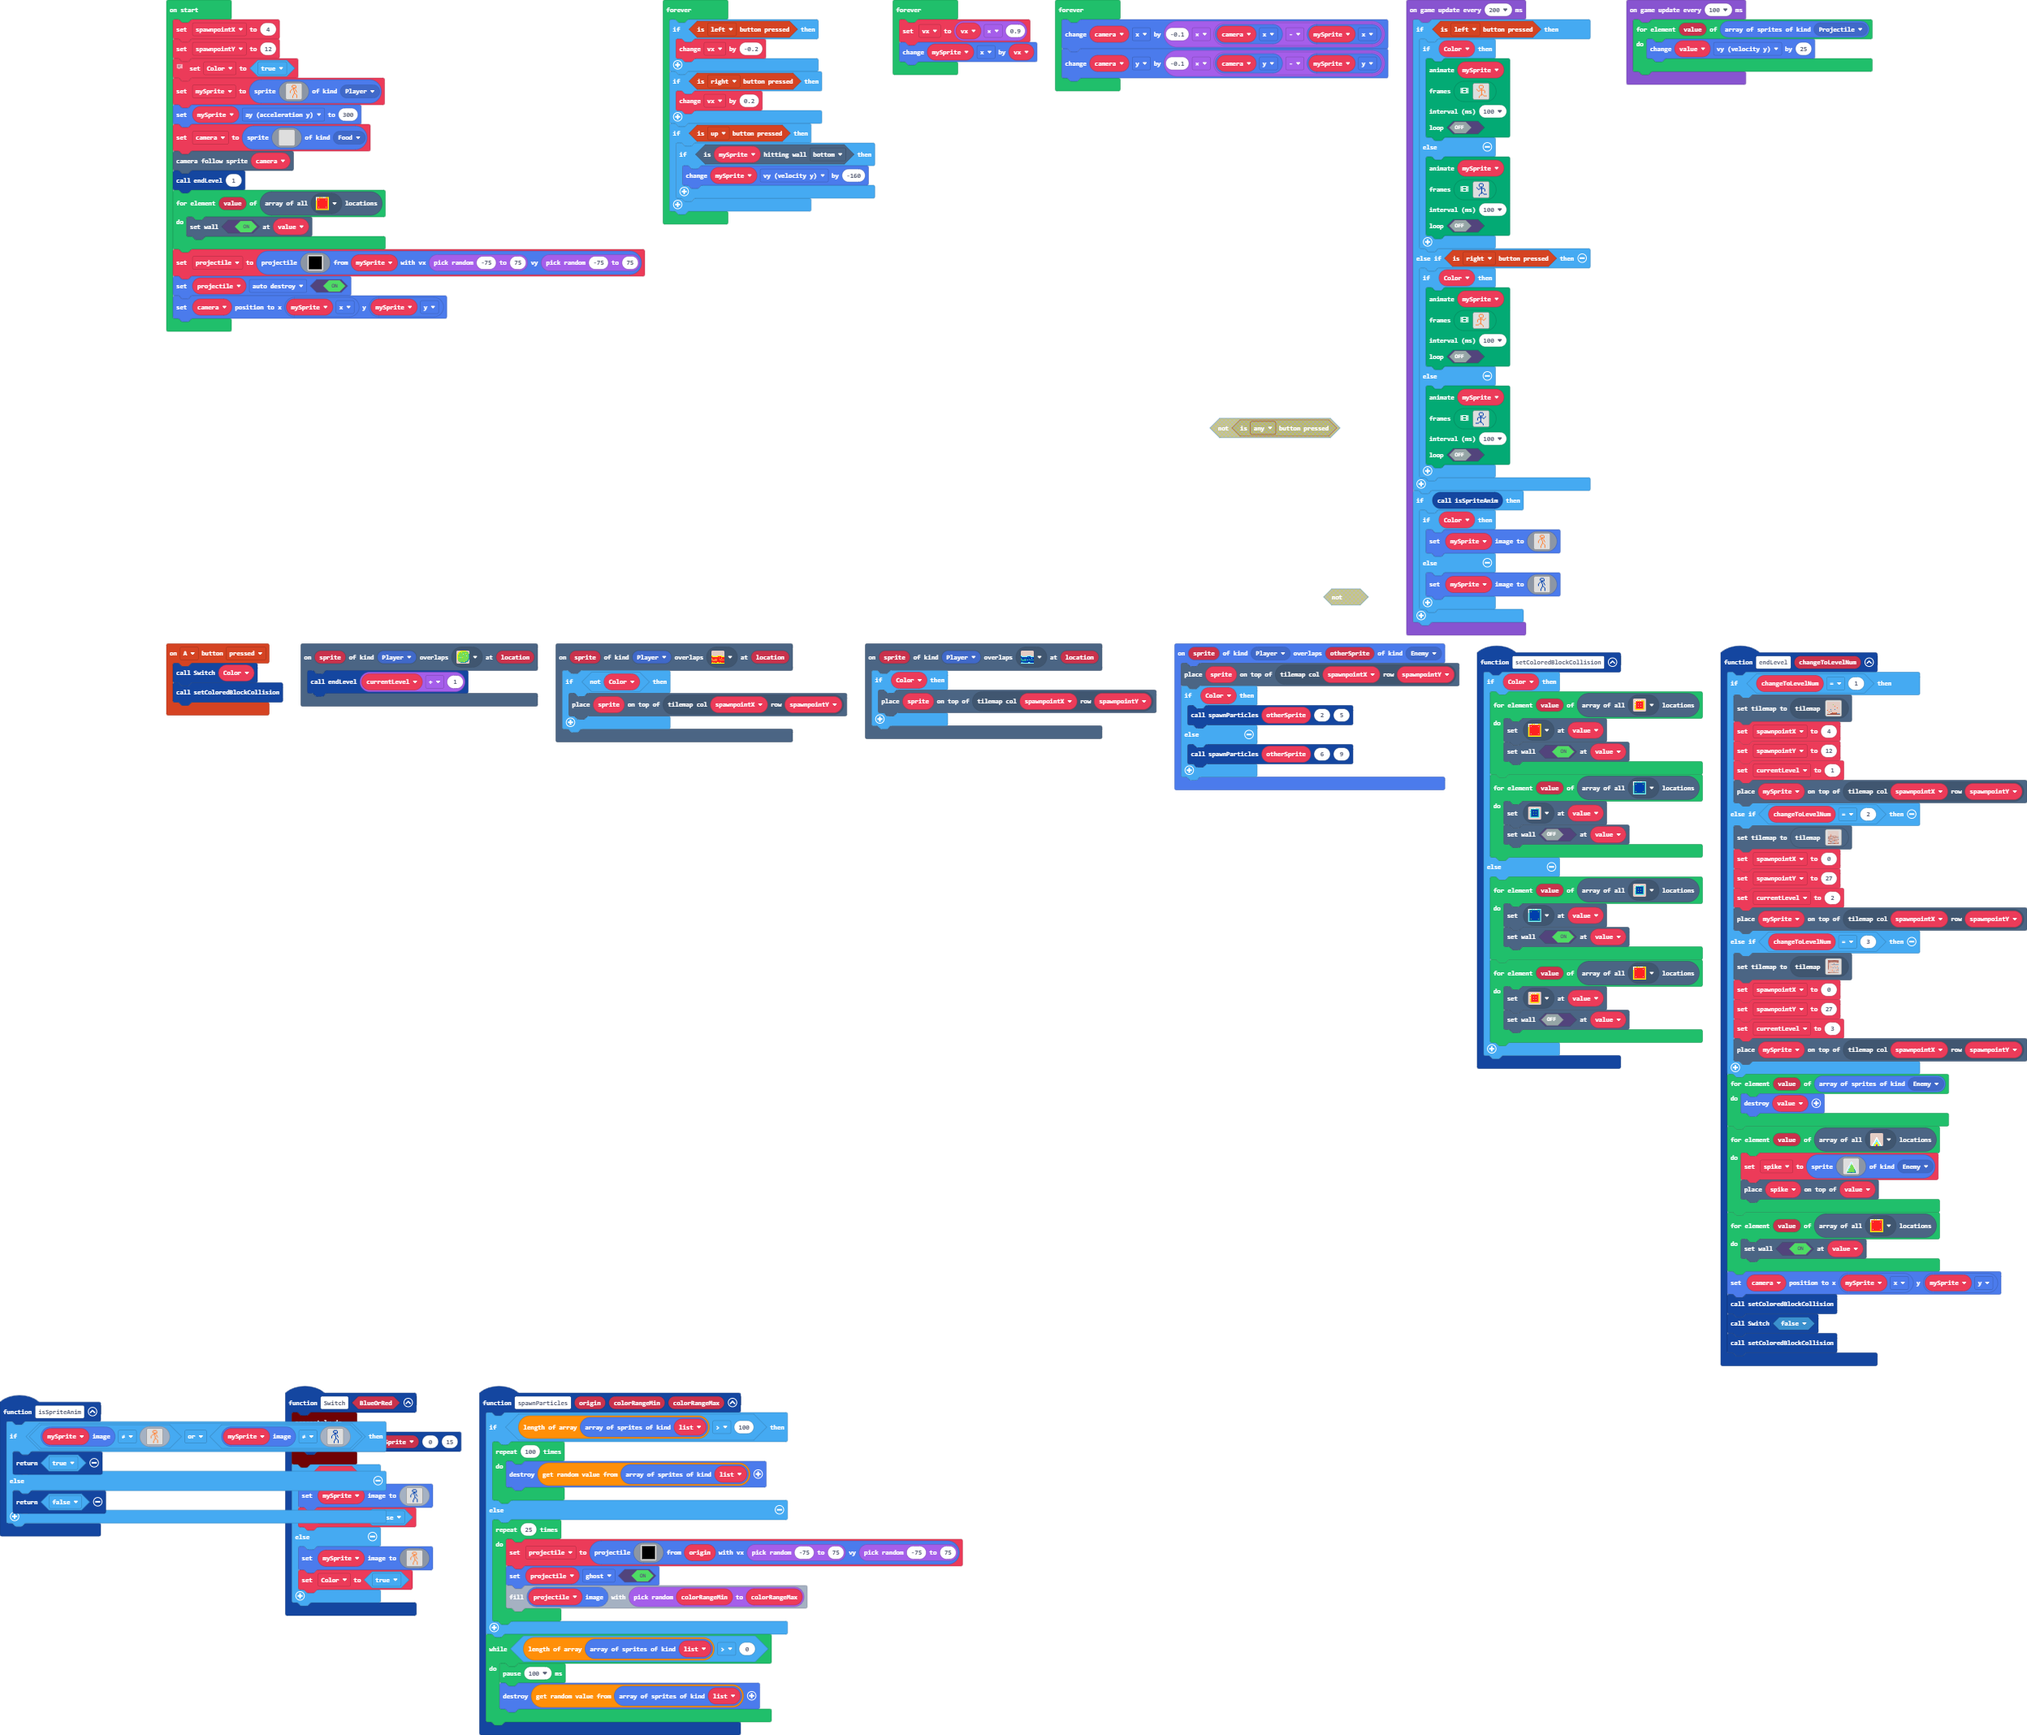
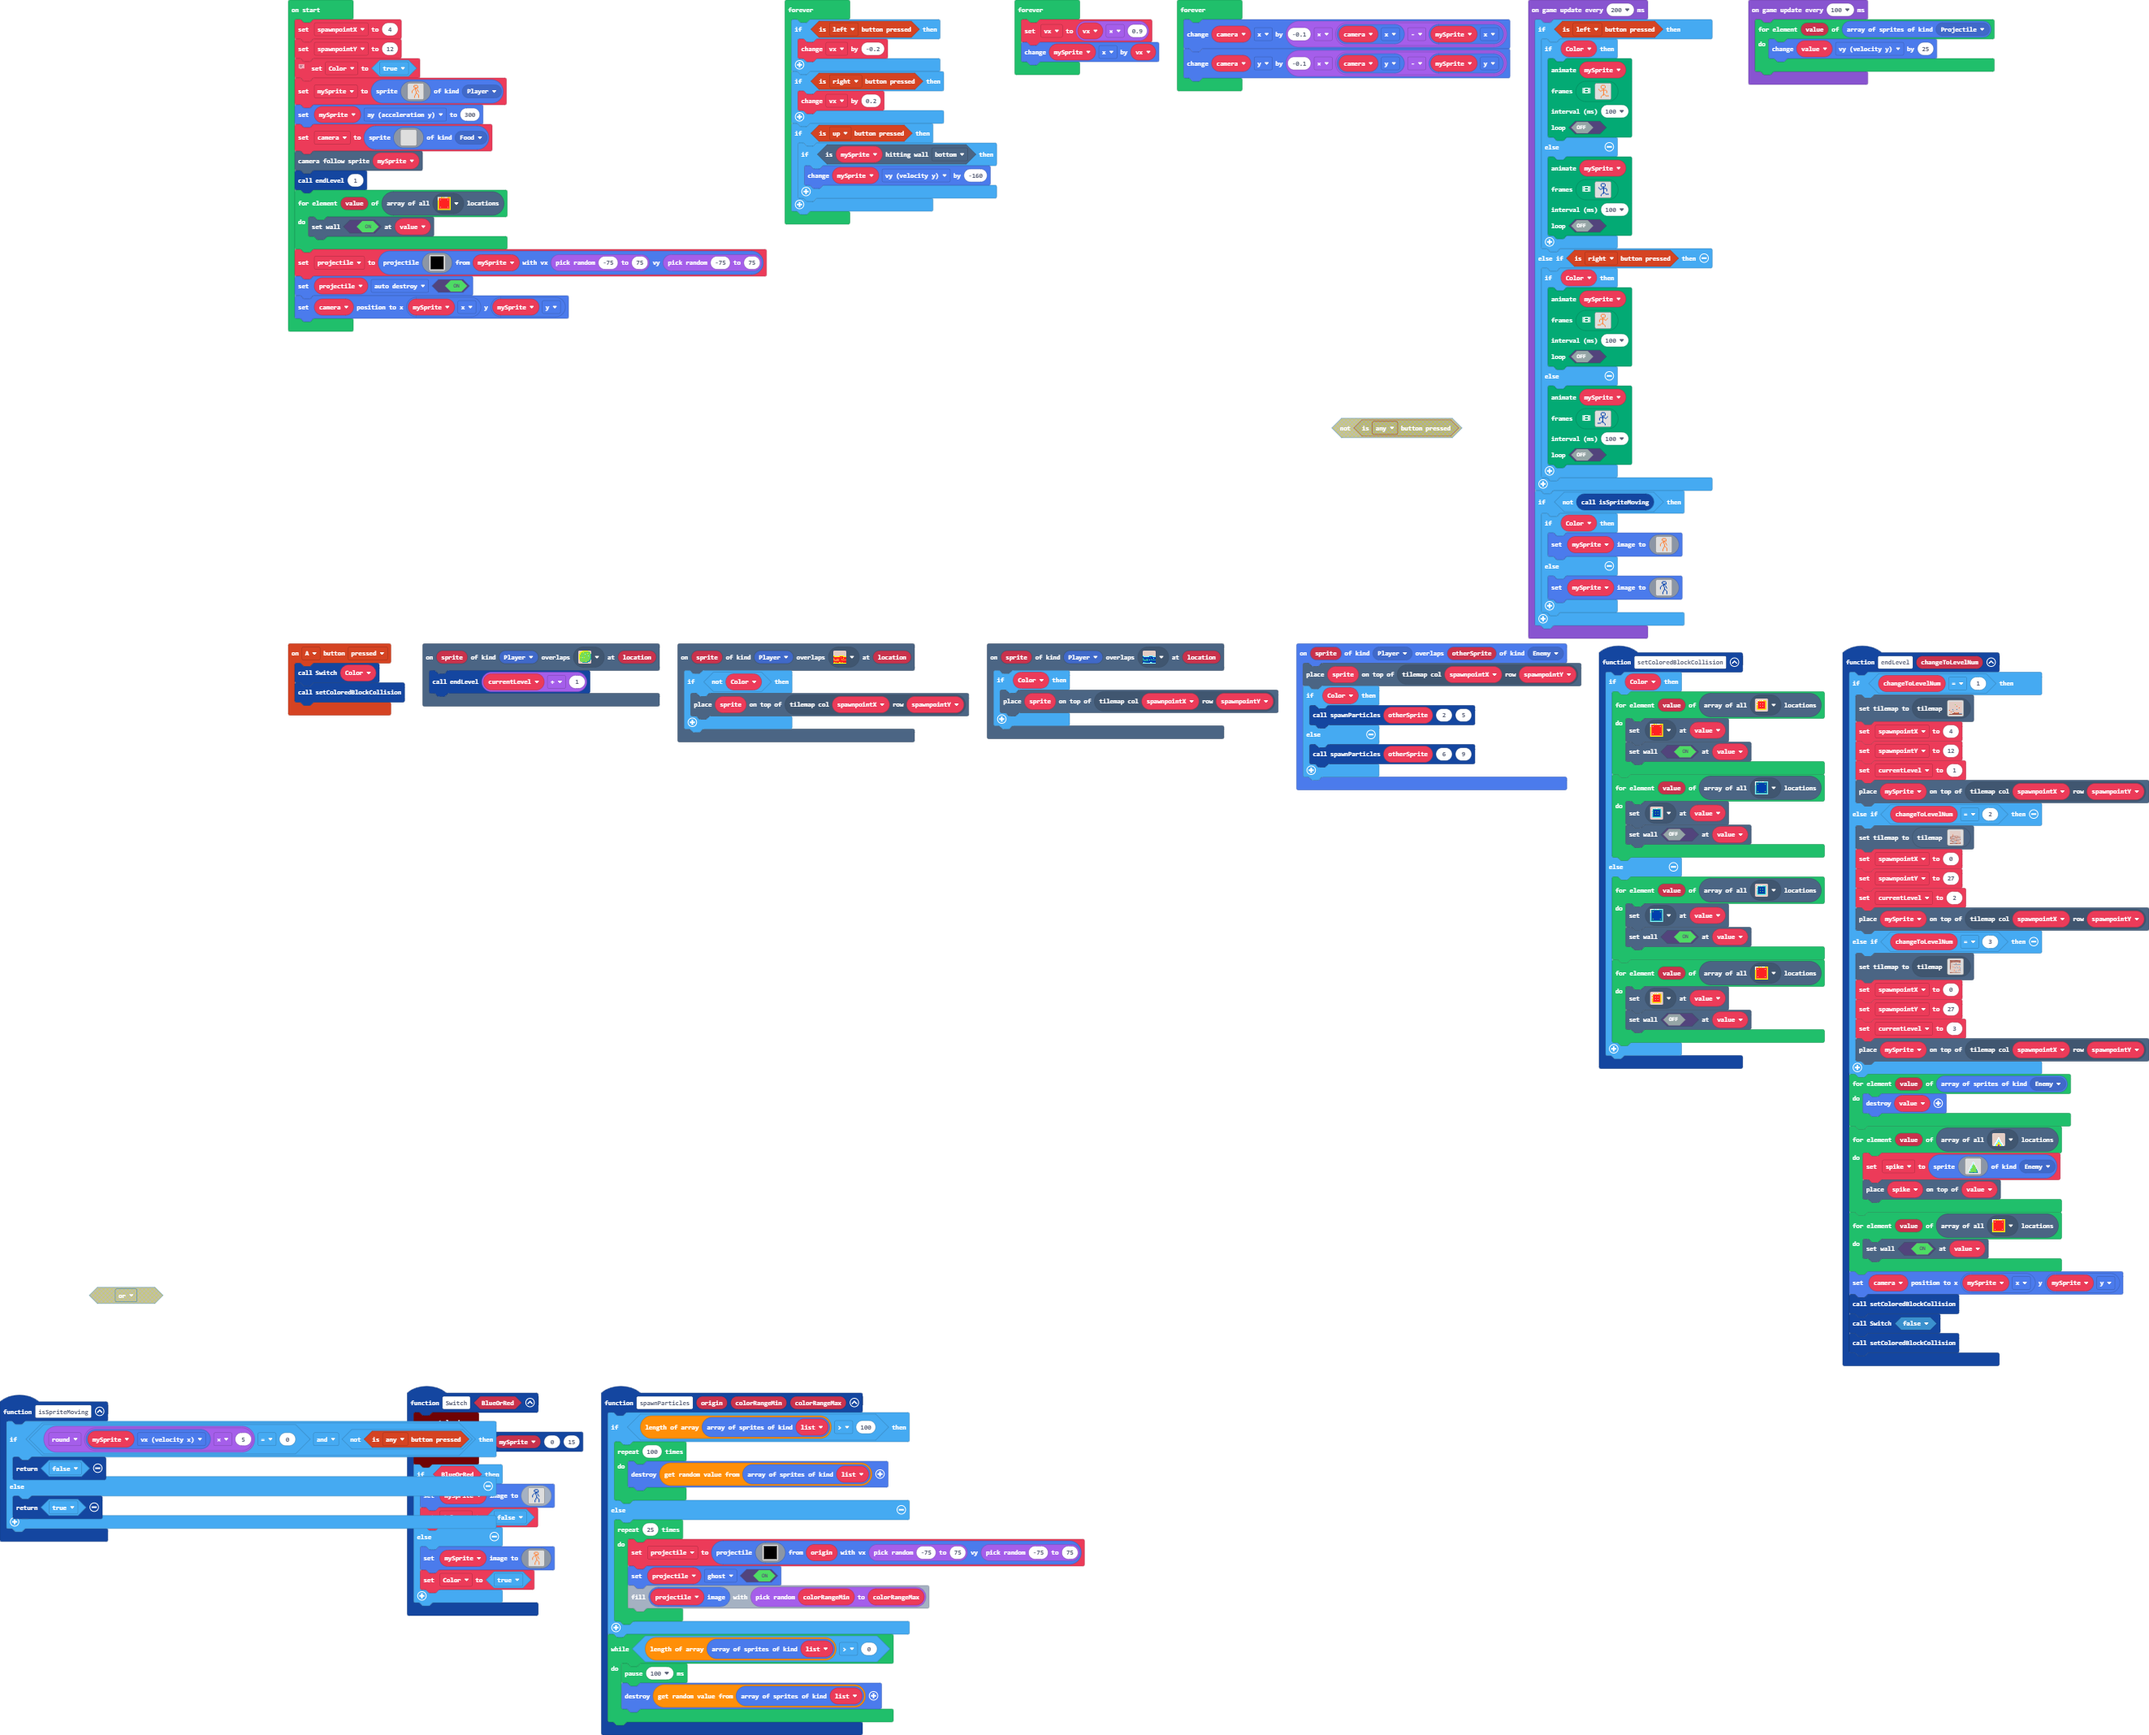
Update pxt.json, main.blocks, main.ts

Changed region(s): [[0.0625, 0.0, 0.9688, 0.8034], [0.0, 0.8034, 0.5, 1.0], [0.0312, 0.7416, 0.0938, 0.7725]]

diff --git a/main.ts b/main.ts
@@ -44,52 +44,18 @@ function Switch (BlueOrRed: boolean) {
         Color = true
     }
 }
+function isSpriteMoving () {
+    if (Math.round(mySprite.vx * 5) == 0 && !(controller.anyButton.isPressed())) {
+        return false
+    } else {
+        return true
+    }
+}
 scene.onOverlapTile(SpriteKind.Player, assets.tile`myTile22`, function (sprite, location) {
     if (!(Color)) {
         tiles.placeOnTile(sprite, tiles.getTileLocation(spawnpointX, spawnpointY))
     }
 })
-function isSpriteAnim () {
-    if (mySprite.image != img`
-        . . . . . . 4 4 4 4 . . . . . . 
-        . . . . . 4 . . . . 4 . . . . . 
-        . . . . . 4 4 . . . 4 . . . . . 
-        . . . . . . . 4 4 4 4 . . . . . 
-        . . . . . . 4 4 4 . . . . . . . 
-        . . . . . 4 . 4 . 4 . . . . . . 
-        . . . . 4 . . 4 . . 4 . . . . . 
-        . . . 4 . . . . 4 . 4 . . . . . 
-        . . . 4 . . . . 4 . . 4 . . . . 
-        . . . 4 . . . . 4 . . . . . . . 
-        . . . . . . . . 4 4 . . . . . . 
-        . . . . . . . 4 . . 4 . . . . . 
-        . . . . . . . 4 . . . 4 . . . . 
-        . . . . . . 4 . . . . 4 . . . . 
-        . . . . . . 4 . . . . 4 . . . . 
-        . . . . . . 4 . . . . 4 . . . . 
-        ` || mySprite.image != img`
-        . . . . . . 8 8 8 8 . . . . . . 
-        . . . . . 8 . . . . 8 . . . . . 
-        . . . . . 8 8 . . . 8 . . . . . 
-        . . . . . . . 8 8 8 8 . . . . . 
-        . . . . . . 8 8 8 . . . . . . . 
-        . . . . . 8 . 8 . 8 . . . . . . 
-        . . . . 8 . . 8 . . 8 . . . . . 
-        . . . 8 . . . . 8 . 8 . . . . . 
-        . . . 8 . . . . 8 . . 8 . . . . 
-        . . . 8 . . . . 8 . . . . . . . 
-        . . . . . . . . 8 8 . . . . . . 
-        . . . . . . . 8 . . 8 . . . . . 
-        . . . . . . . 8 . . . 8 . . . . 
-        . . . . . . 8 . . . . 8 . . . . 
-        . . . . . . 8 . . . . 8 . . . . 
-        . . . . . . 8 . . . . 8 . . . . 
-        `) {
-        return true
-    } else {
-        return false
-    }
-}
 function endLevel (changeToLevelNum: number) {
     if (changeToLevelNum == 1) {
         tiles.setCurrentTilemap(tilemap`level`)
@@ -237,7 +203,7 @@ camera = sprites.create(img`
     . . . . . . . . . . . . . . . . 
     . . . . . . . . . . . . . . . . 
     `, SpriteKind.Food)
-scene.cameraFollowSprite(camera)
+scene.cameraFollowSprite(mySprite)
 endLevel(1)
 for (let value of tiles.getTilesByType(assets.tile`myTile2`)) {
     tiles.setWallAt(value, true)
@@ -443,7 +409,7 @@ game.onUpdateInterval(200, function () {
             )
         }
     }
-    if (isSpriteAnim()) {
+    if (!(isSpriteMoving())) {
         if (Color) {
             mySprite.setImage(img`
                 . . . . . . 4 4 4 4 . . . . . . 
